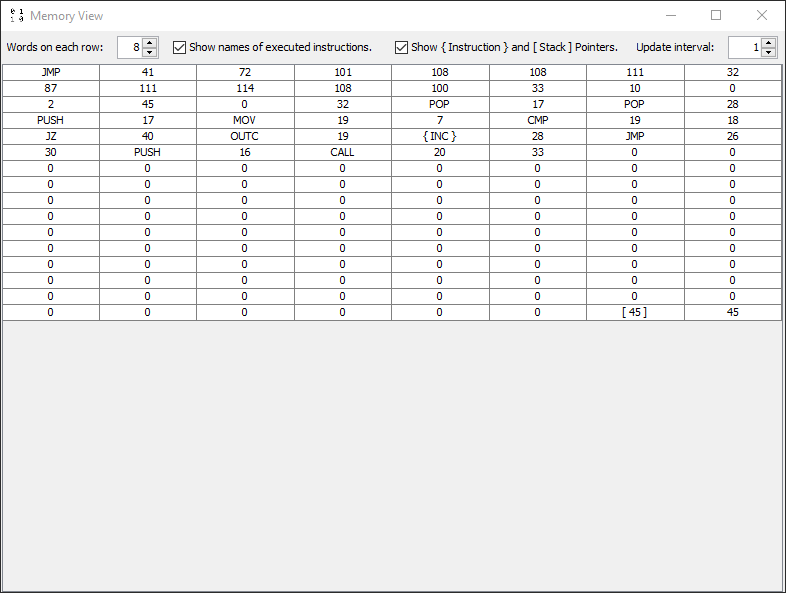
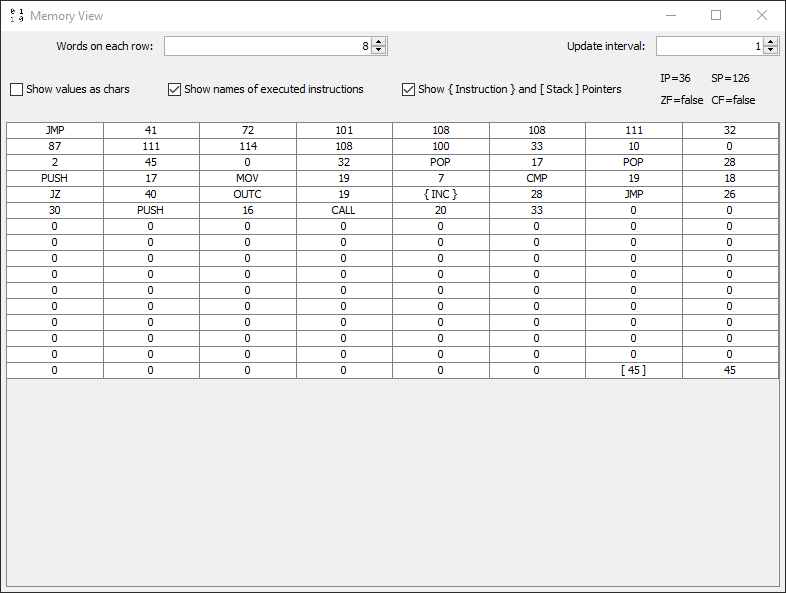
Added option to show values as characters in MemoryView
Added option to show values as characters in MemoryView
Added label to MemoryView that shows the values of all Processor's Registries (and Flags)

Renamed method MemoryView#updateTable to MemoryView#updateFrame
Added method MemoryView#addComponent
Removed method MemoryView#createConstraint

Made Quit button do the same action as closing the Application

Changed region(s): [[0.0, 0.0607, 1.0, 1.0]]

diff --git a/src/main/java/io/github/hds/pemu/app/MemoryView.java b/src/main/java/io/github/hds/pemu/app/MemoryView.java
@@ -12,28 +12,20 @@ import java.util.HashMap;
 
 public class MemoryView extends JFrame {
 
+    private static final String R_VALUES_FORMAT = "<html><table><tr><td>IP=%s</td><td>SP=%s</td></tr><tr><td>ZF=%s</td><td>CF=%s</td></tr></table>";
+    private static final String R_VALUES_UNKNOWN = "?";
+
     private final Application app;
 
     private final Timer UPDATE_TIMER;
     private final JTable MEMORY_TABLE;
 
     private final JSpinner DUMP_WIDTH_SPINNER;
+    private final JSpinner UPDATE_DELAY;
+    private final JCheckBox SHOW_AS_CHAR;
     private final JCheckBox SHOW_HISTORY;
     private final JCheckBox SHOW_POINTERS;
-    private final JSpinner UPDATE_DELAY;
-
-    private static GridBagConstraints createConstraint(int fill, int margin, int x, int y, int width, int height, float weightX, float weightY) {
-        GridBagConstraints constraint = new GridBagConstraints();
-        constraint.fill = fill;
-        constraint.insets = new Insets(margin, margin, margin, margin);
-        constraint.gridx = x;
-        constraint.gridy = y;
-        constraint.gridwidth = width;
-        constraint.gridheight = height;
-        constraint.weightx = weightX;
-        constraint.weighty = weightY;
-        return constraint;
-    }
+    private final JLabel REG_VALUES;
 
     protected MemoryView(@NotNull Application parentApp) {
         super("Memory View");
@@ -47,23 +39,27 @@ public class MemoryView extends JFrame {
         setLayout(new GridBagLayout());
 
         // Adding Options
-        GridBagConstraints firstRow = createConstraint(GridBagConstraints.BOTH, 5, 0, 0, 1, 1, 1.0f, 0.0f);
-
-        add(new JLabel("Words on each row:"), firstRow, true);
+        addComponent(new JLabel("Words on each row:", JLabel.RIGHT), 0, 0);
         SpinnerNumberModel dumpWidthModel = new SpinnerNumberModel(Byte.SIZE, Byte.SIZE, Byte.SIZE * Byte.SIZE, Byte.SIZE);
         DUMP_WIDTH_SPINNER = new JSpinner(dumpWidthModel);
-        add(DUMP_WIDTH_SPINNER, firstRow, true);
+        addComponent(DUMP_WIDTH_SPINNER, 1, 0);
 
-        SHOW_HISTORY = new JCheckBox("Show names of executed instructions.");
-        add(SHOW_HISTORY, firstRow, true);
-
-        SHOW_POINTERS = new JCheckBox("Show { Instruction } and [ Stack ] Pointers.");
-        add(SHOW_POINTERS, firstRow, true);
-
-        add(new JLabel("Update interval:"), firstRow, true);
+        addComponent(new JLabel("Update interval:", JLabel.RIGHT), 2, 0);
         SpinnerNumberModel updateDelayModel = new SpinnerNumberModel(1.0f, 0.01f, 5.0f, 0.01f);
         UPDATE_DELAY = new JSpinner(updateDelayModel);
-        add(UPDATE_DELAY, firstRow, true);
+        addComponent(UPDATE_DELAY, 3, 0);
+
+        SHOW_AS_CHAR = new JCheckBox("Show values as chars");
+        addComponent(SHOW_AS_CHAR, 0, 1);
+
+        SHOW_HISTORY = new JCheckBox("Show names of executed instructions");
+        addComponent(SHOW_HISTORY, 1, 1);
+
+        SHOW_POINTERS = new JCheckBox("Show { Instruction } and [ Stack ] Pointers");
+        addComponent(SHOW_POINTERS, 2, 1);
+
+        REG_VALUES = new JLabel();
+        addComponent(REG_VALUES, 3, 1);
 
         // Adding non-editable table
         MEMORY_TABLE = new JTable() {
@@ -79,18 +75,39 @@ public class MemoryView extends JFrame {
         DefaultTableCellRenderer tableCellRenderer = (DefaultTableCellRenderer) MEMORY_TABLE.getDefaultRenderer(String.class);
         tableCellRenderer.setHorizontalAlignment(DefaultTableCellRenderer.CENTER);
         // Adding table to Frame
-        add(new JScrollPane(MEMORY_TABLE), createConstraint(GridBagConstraints.BOTH, 0, 0, 1, firstRow.gridx, 1, 1.0f, 1.0f));
+        addComponent(new JScrollPane(MEMORY_TABLE), 0, 2, 4, 1, 1.0f, 1.0f);
 
-        UPDATE_TIMER = new Timer(0, this::updateTable);
+        UPDATE_TIMER = new Timer(0, this::updateFrame);
+        updateFrame(null);
         UPDATE_TIMER.start();
     }
 
-    public void add(@NotNull Component component, @NotNull GridBagConstraints constraints, boolean autoIncrementX) {
-        add(component, constraints);
-        if (autoIncrementX) constraints.gridx++;
+    public void addComponent(@NotNull Component component, int x, int y) {
+        addComponent(component, x, y, 1, 1);
     }
 
-    public void updateTable(ActionEvent e) {
+    public void addComponent(@NotNull Component component, int x, int y, int w, int h) {
+        addComponent(component, x, y, w, h, 1.0f, 0.0f);
+    }
+
+    public void addComponent(@NotNull Component component, int x, int y, int w, int h, float wX, float wY) {
+        addComponent(component, x, y, w, h, wX, wY, 5);
+    }
+
+    public void addComponent(@NotNull Component component, int x, int y, int w, int h, float wX, float wY, int margin) {
+        GridBagConstraints constraints = new GridBagConstraints();
+        constraints.fill = GridBagConstraints.BOTH;
+        constraints.insets = new Insets(margin, margin, margin, margin);
+        constraints.gridx = x;
+        constraints.gridy = y;
+        constraints.gridwidth = w;
+        constraints.gridheight = h;
+        constraints.weightx = wX;
+        constraints.weighty = wY;
+        add(component, constraints);
+    }
+
+    public void updateFrame(ActionEvent e) {
         UPDATE_TIMER.setDelay((int) ((double) UPDATE_DELAY.getValue() * 1000.0f));
 
         if (!isVisible()) return;
@@ -100,6 +117,8 @@ public class MemoryView extends JFrame {
         if (processor == null) {
             model.setRowCount(0);
             model.setColumnCount(0);
+
+            REG_VALUES.setText(String.format(R_VALUES_FORMAT, R_VALUES_UNKNOWN, R_VALUES_UNKNOWN, R_VALUES_UNKNOWN, R_VALUES_UNKNOWN));
             return;
         }
 
@@ -108,6 +127,10 @@ public class MemoryView extends JFrame {
         HashMap<Integer, String> history = new HashMap<>(processor.HISTORY);
         int IP = processor.IP.value;
         int SP = processor.SP.value;
+        boolean ZF = processor.ZERO.value;
+        boolean CF = processor.CARRY.value;
+
+        REG_VALUES.setText(String.format(R_VALUES_FORMAT, IP, SP, ZF, CF));
 
         int width = (int) DUMP_WIDTH_SPINNER.getValue();
         int memSize = processor.MEMORY.getSize();
@@ -118,7 +141,9 @@ public class MemoryView extends JFrame {
             int x = i % width;
             int y = i / width;
 
-            String value = String.valueOf(processor.MEMORY.getValueAt(i));
+            String value = SHOW_AS_CHAR.isSelected() ?
+                    String.valueOf((char) processor.MEMORY.getValueAt(i)) : String.valueOf(processor.MEMORY.getValueAt(i));
+
             if (SHOW_HISTORY.isSelected() && history.containsKey(i))
                 value = history.get(i);
             if (SHOW_POINTERS.isSelected())

diff --git a/src/main/java/io/github/hds/pemu/processor/Processor.java b/src/main/java/io/github/hds/pemu/processor/Processor.java
@@ -16,8 +16,8 @@ public class Processor implements Runnable {
     public final Registry IP = new Registry("Instruction Pointer");
     public final Registry SP = new Registry("Stack Pointer");
 
-    public final Flag ZERO  = new Flag(false, "Zero Bit");
-    public final Flag CARRY = new Flag(false, "Carry Bit");
+    public final Flag ZERO  = new Flag(false, "Zero Flag");
+    public final Flag CARRY = new Flag(false, "Carry Flag");
 
     public final Memory MEMORY;
     public final Clock CLOCK;

diff --git a/src/main/java/io/github/hds/pemu/app/Application.java b/src/main/java/io/github/hds/pemu/app/Application.java
@@ -227,8 +227,6 @@ public class Application extends JFrame implements KeyListener {
     }
 
     protected void close(ActionEvent e) {
-        stopProcessor(null);
-        MEMORY_VIEW.dispose();
-        dispose();
+        System.exit(0);
     }
 }
